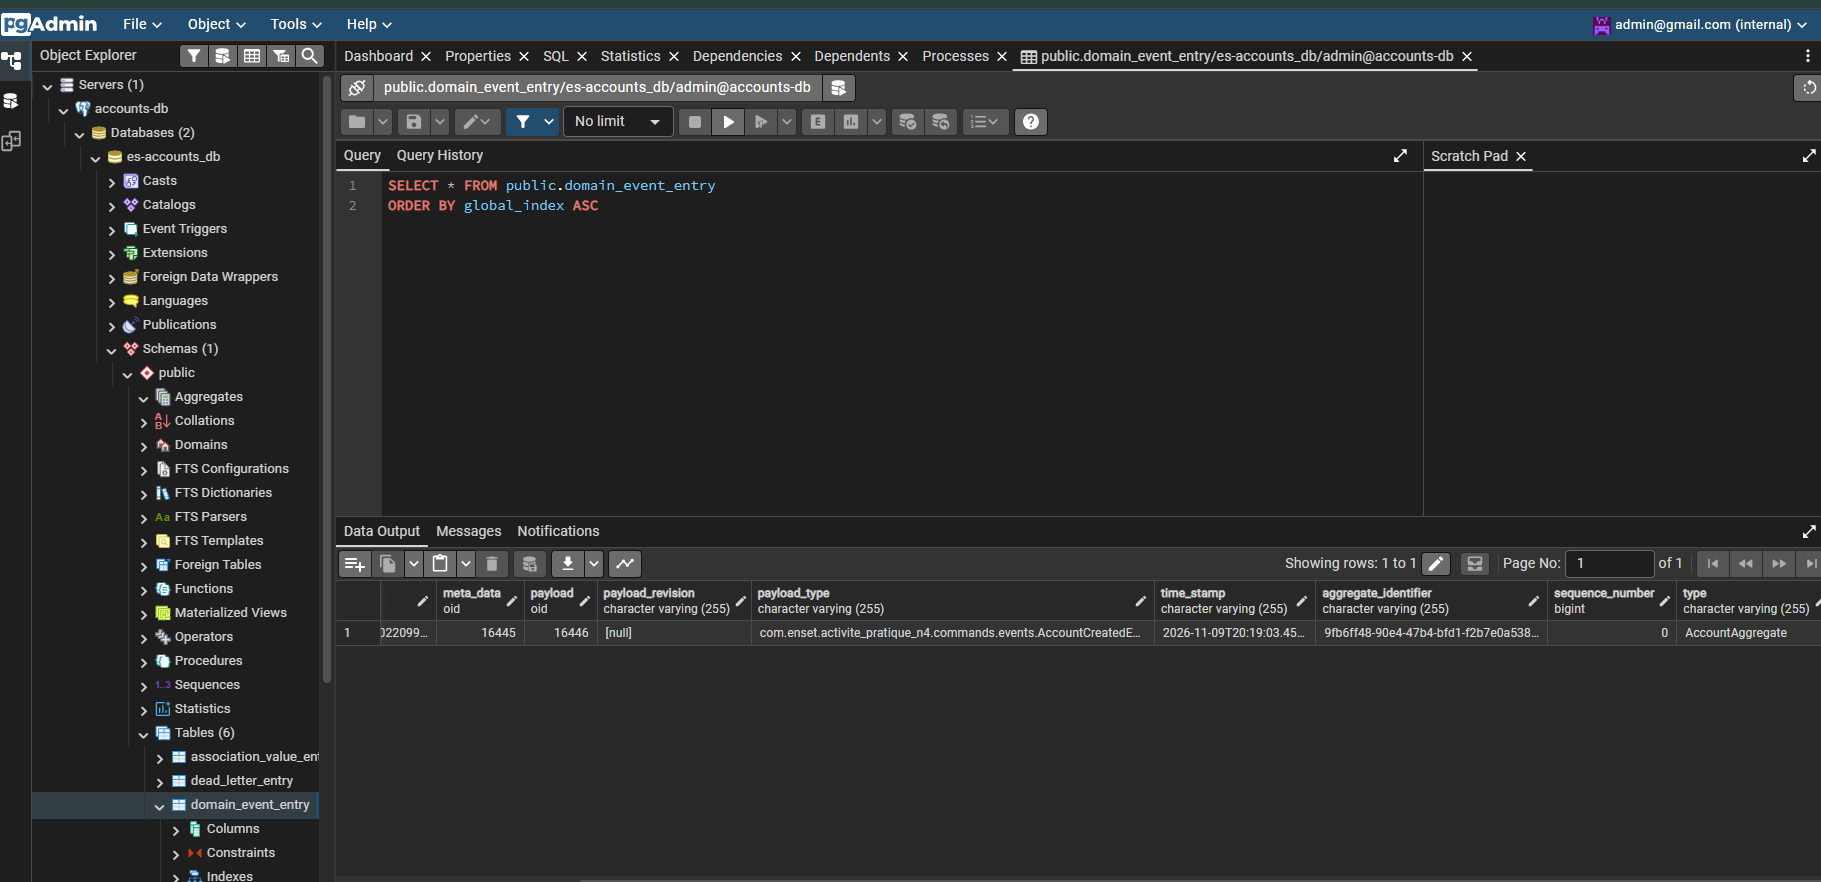
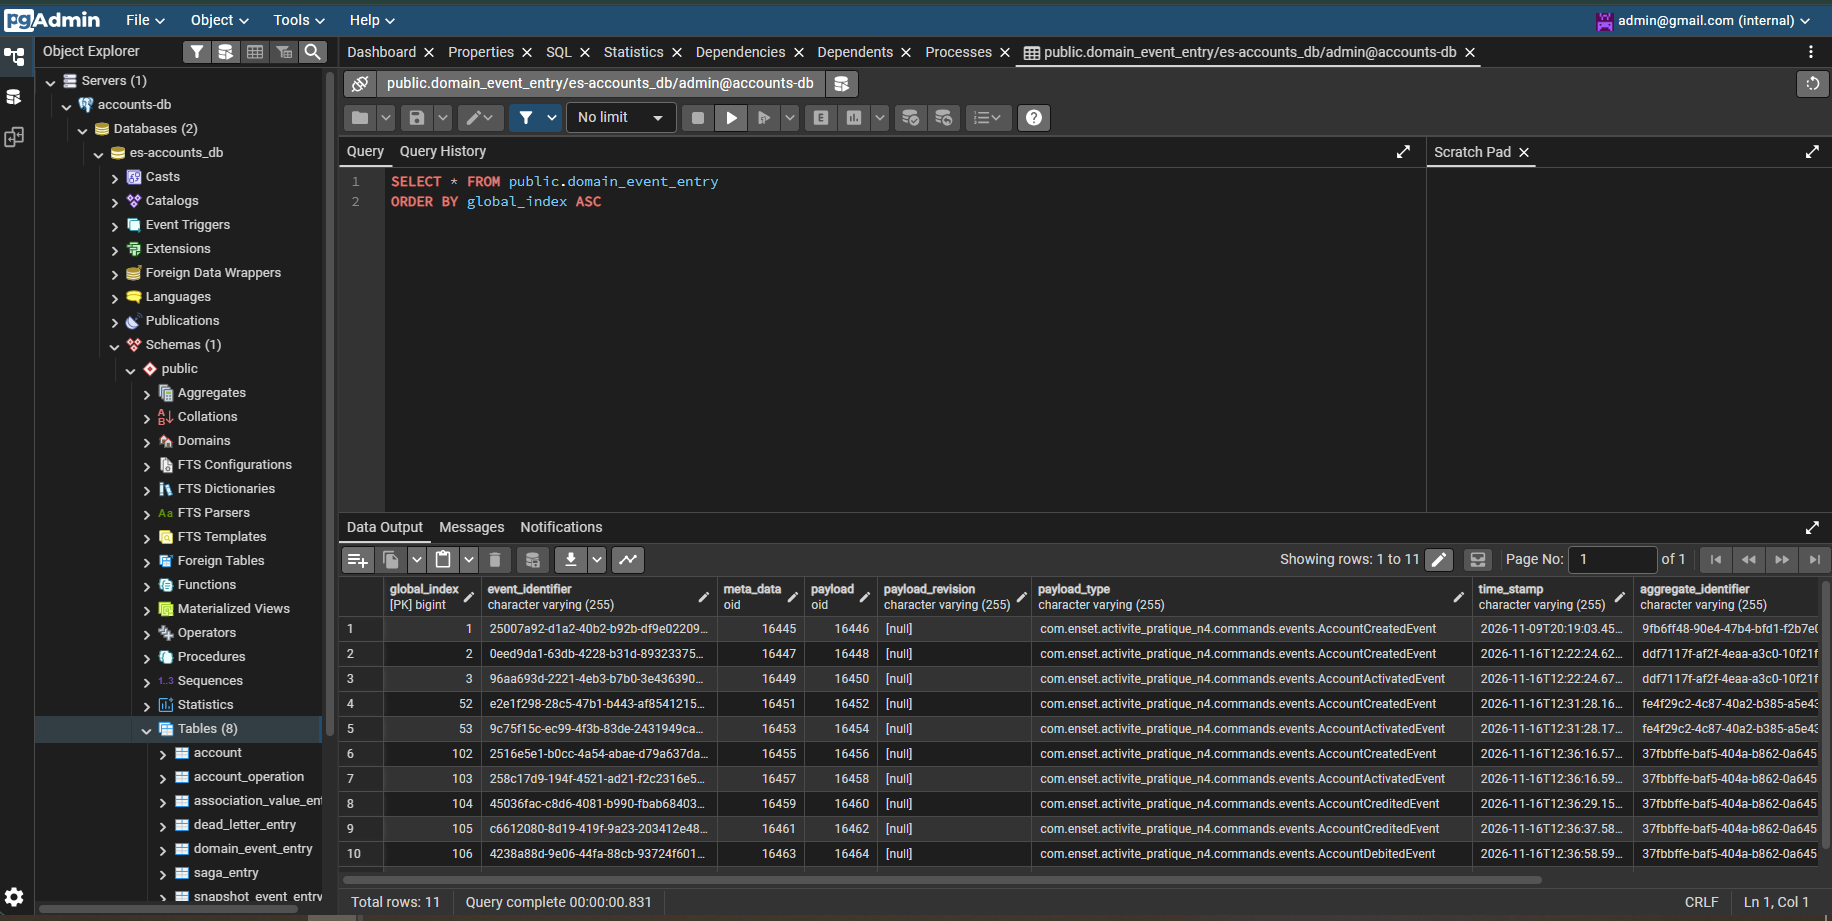
architecture CQRS et Event Sourcing fonctionnel

Changed region(s): [[0.0, 0.0, 1.0, 1.0]]

diff --git a/Activite_Pratique_N4-CQRS_Event_Sourcing_AXON_springCloud/src/main/java/com/enset/activite_pratique_n4/query/handlers/AccountEventHandler.java b/Activite_Pratique_N4-CQRS_Event_Sourcing_AXON_springCloud/src/main/java/com/enset/activite_pratique_n4/query/handlers/AccountEventHandler.java
@@ -1,0 +1,98 @@
+package com.enset.activite_pratique_n4.query.handlers;
+
+import com.enset.activite_pratique_n4.commands.events.*;
+import com.enset.activite_pratique_n4.common.OperationType;
+import com.enset.activite_pratique_n4.query.entities.Account;
+import com.enset.activite_pratique_n4.query.entities.AccountOperation;
+import com.enset.activite_pratique_n4.query.repositories.AccountRepository;
+import com.enset.activite_pratique_n4.query.repositories.OperationRepository;
+import lombok.AllArgsConstructor;
+import lombok.extern.slf4j.Slf4j;
+import org.axonframework.eventhandling.EventHandler;
+import org.axonframework.eventhandling.EventMessage;
+import org.springframework.stereotype.Service;
+
+@Service
+@AllArgsConstructor
+@Slf4j
+public class AccountEventHandler {
+
+    private AccountRepository accountRepository;
+    private OperationRepository operationRepository;
+
+    @EventHandler
+    public void on(AccountCreatedEvent event, EventMessage<AccountCreatedEvent> eventMessage) {
+        log.info("Query Side : AccountCreatedEvent received");
+
+        Account account = new Account();
+        account.setId(event.getAccountId());
+        account.setBalance(event.getInitialBalance());
+        account.setStatus(event.getStatus());
+        account.setCurrency(event.getCurrency());
+
+        account.setCreatedAt(eventMessage.getTimestamp());
+
+        accountRepository.save(account);
+    }
+
+    @EventHandler
+    public void on(AccountActivatedEvent event) {
+        log.info("Query Side : AccountActivatedEvent received");
+        Account account = accountRepository.findById(event.getAccountId()).get();
+        account.setStatus(event.getStatus());
+        accountRepository.save(account);
+    }
+
+    @EventHandler
+    public void on(AccountStatusUpdatedEvent event) {
+        log.info("Query Side : AccountStatusUpdatedEvent received");
+        Account account = accountRepository.findById(event.getId()).get();
+        account.setStatus(event.getStatus());
+        accountRepository.save(account);
+    }
+
+
+    // Projection de l'événement de Débit
+    @EventHandler
+    public void on(AccountDebitedEvent event, EventMessage<AccountDebitedEvent> eventMessage) {
+        log.info("Query Side : AccountDebitedEvent received");
+
+        // 1. Charger le compte depuis la base de lecture
+        Account account = accountRepository.findById(event.getAccountId()).get();
+
+        // 2. Créer l'opération
+        AccountOperation accountOperation = new AccountOperation();
+        accountOperation.setAmount(event.getAmount());
+        accountOperation.setOperationDate(eventMessage.getTimestamp());
+        accountOperation.setType(OperationType.DEBIT);
+        accountOperation.setAccount(account);
+
+        // 3. Sauvegarder l'opération
+        operationRepository.save(accountOperation);
+
+        // 4. Mettre à jour le solde du compte
+        account.setBalance(account.getBalance() - event.getAmount());
+        accountRepository.save(account);
+    }
+
+    // Projection de l'événement de Crédit
+    @EventHandler
+    public void on(AccountCreditedEvent event, EventMessage<AccountCreditedEvent> eventMessage) {
+        log.info("Query Side : AccountCreditedEvent received");
+
+        Account account = accountRepository.findById(event.getAccountId()).get();
+
+        AccountOperation accountOperation = new AccountOperation();
+        accountOperation.setAmount(event.getAmount());
+        accountOperation.setOperationDate(eventMessage.getTimestamp());
+        accountOperation.setType(OperationType.CREDIT);
+        accountOperation.setAccount(account);
+
+        operationRepository.save(accountOperation);
+
+        account.setBalance(account.getBalance() + event.getAmount());
+        accountRepository.save(account);
+    }
+
+
+}

diff --git a/Activite_Pratique_N4-CQRS_Event_Sourcing_AXON_springCloud/src/main/java/com/enset/activite_pratique_n4/query/controllers/AccountQueryController.java b/Activite_Pratique_N4-CQRS_Event_Sourcing_AXON_springCloud/src/main/java/com/enset/activite_pratique_n4/query/controllers/AccountQueryController.java
@@ -1,0 +1,42 @@
+package com.enset.activite_pratique_n4.query.controllers;
+
+import com.enset.activite_pratique_n4.query.dto.AccountStatementResponseDTO;
+import com.enset.activite_pratique_n4.query.entities.Account;
+import com.enset.activite_pratique_n4.query.queries.GetAccountStatementQuery;
+import com.enset.activite_pratique_n4.query.queries.GetAllAccountsQuery;
+import lombok.AllArgsConstructor;
+import org.axonframework.messaging.responsetypes.ResponseTypes;
+import org.axonframework.queryhandling.QueryGateway;
+import org.springframework.web.bind.annotation.GetMapping;
+import org.springframework.web.bind.annotation.PathVariable;
+import org.springframework.web.bind.annotation.RequestMapping;
+import org.springframework.web.bind.annotation.RestController;
+
+import java.util.List;
+import java.util.concurrent.CompletableFuture;
+
+@RestController
+@RequestMapping("/query/accounts")
+@AllArgsConstructor
+public class AccountQueryController {
+
+    private QueryGateway queryGateway;
+
+    // Consulter tous les comptes
+    @GetMapping("/all")
+    public CompletableFuture<List<Account>> getAllAccounts() {
+        return queryGateway.query(
+                new GetAllAccountsQuery(),
+                ResponseTypes.multipleInstancesOf(Account.class)
+        );
+    }
+
+    // Consulter le relevé d'un compte (historique des transactions)
+    @GetMapping("/statement/{accountId}")
+    public CompletableFuture<AccountStatementResponseDTO> getAccountStatement(@PathVariable String accountId) {
+        return queryGateway.query(
+                new GetAccountStatementQuery(accountId),
+                ResponseTypes.instanceOf(AccountStatementResponseDTO.class)
+        );
+    }
+}

diff --git a/Activite_Pratique_N4-CQRS_Event_Sourcing_AXON_springCloud/src/main/java/com/enset/activite_pratique_n4/query/handlers/AccountQueryHandler.java b/Activite_Pratique_N4-CQRS_Event_Sourcing_AXON_springCloud/src/main/java/com/enset/activite_pratique_n4/query/handlers/AccountQueryHandler.java
@@ -1,0 +1,35 @@
+package com.enset.activite_pratique_n4.query.handlers;
+
+import com.enset.activite_pratique_n4.query.dto.AccountStatementResponseDTO;
+import com.enset.activite_pratique_n4.query.entities.Account;
+import com.enset.activite_pratique_n4.query.entities.AccountOperation;
+import com.enset.activite_pratique_n4.query.queries.GetAccountStatementQuery;
+import com.enset.activite_pratique_n4.query.queries.GetAllAccountsQuery;
+import com.enset.activite_pratique_n4.query.repositories.AccountRepository;
+import com.enset.activite_pratique_n4.query.repositories.OperationRepository;
+import lombok.AllArgsConstructor;
+import org.axonframework.queryhandling.QueryHandler;
+import org.springframework.stereotype.Service;
+
+import java.util.List;
+
+@Service
+@AllArgsConstructor
+public class AccountQueryHandler {
+
+    private AccountRepository accountRepository;
+    private OperationRepository operationRepository;
+
+    @QueryHandler
+    public List<Account> on(GetAllAccountsQuery query) {
+        return accountRepository.findAll();
+    }
+
+    @QueryHandler
+    public AccountStatementResponseDTO on(GetAccountStatementQuery query) {
+        Account account = accountRepository.findById(query.getAccountId()).get();
+        List<AccountOperation> operations = operationRepository.findByAccountId(query.getAccountId());
+
+        return new AccountStatementResponseDTO(account, operations);
+    }
+}

diff --git a/Activite_Pratique_N4-CQRS_Event_Sourcing_AXON_springCloud/src/main/java/com/enset/activite_pratique_n4/query/entities/Account.java b/Activite_Pratique_N4-CQRS_Event_Sourcing_AXON_springCloud/src/main/java/com/enset/activite_pratique_n4/query/entities/Account.java
@@ -1,0 +1,28 @@
+package com.enset.activite_pratique_n4.query.entities;
+
+import com.enset.activite_pratique_n4.common.AccountStatus;
+import jakarta.persistence.Entity;
+import jakarta.persistence.EnumType;
+import jakarta.persistence.Enumerated;
+import jakarta.persistence.Id;
+import lombok.AllArgsConstructor;
+import lombok.Builder;
+import lombok.Data;
+import lombok.NoArgsConstructor;
+
+import java.time.Instant;
+
+@Entity
+@Data
+@NoArgsConstructor
+@AllArgsConstructor
+@Builder
+public class Account {
+    @Id
+    private String id;
+    private double balance;
+    @Enumerated(EnumType.STRING)
+    private AccountStatus status;
+    private String currency;
+    private Instant createdAt;
+}

diff --git a/Activite_Pratique_N4-CQRS_Event_Sourcing_AXON_springCloud/src/main/java/com/enset/activite_pratique_n4/query/entities/AccountOperation.java b/Activite_Pratique_N4-CQRS_Event_Sourcing_AXON_springCloud/src/main/java/com/enset/activite_pratique_n4/query/entities/AccountOperation.java
@@ -1,0 +1,27 @@
+package com.enset.activite_pratique_n4.query.entities;
+
+import com.enset.activite_pratique_n4.common.OperationType;
+import jakarta.persistence.*;
+import lombok.AllArgsConstructor;
+import lombok.Builder;
+import lombok.Data;
+import lombok.NoArgsConstructor;
+
+import java.time.Instant;
+
+@Entity
+@Data
+@NoArgsConstructor
+@AllArgsConstructor
+@Builder
+public class AccountOperation {
+    @Id
+    @GeneratedValue(strategy = GenerationType.IDENTITY)
+    private Long id;
+    private Instant operationDate;
+    private double amount;
+    @Enumerated(EnumType.STRING)
+    private OperationType type;
+    @ManyToOne
+    private Account account;
+}

diff --git a/Activite_Pratique_N4-CQRS_Event_Sourcing_AXON_springCloud/src/main/java/com/enset/activite_pratique_n4/query/dto/AccountStatementResponseDTO.java b/Activite_Pratique_N4-CQRS_Event_Sourcing_AXON_springCloud/src/main/java/com/enset/activite_pratique_n4/query/dto/AccountStatementResponseDTO.java
@@ -1,0 +1,15 @@
+package com.enset.activite_pratique_n4.query.dto;
+
+import com.enset.activite_pratique_n4.query.entities.Account;
+import com.enset.activite_pratique_n4.query.entities.AccountOperation;
+import lombok.AllArgsConstructor;
+import lombok.Data;
+import lombok.NoArgsConstructor;
+
+import java.util.List;
+
+@Data @AllArgsConstructor @NoArgsConstructor
+public class AccountStatementResponseDTO {
+    private Account account;
+    private List<AccountOperation> operations;
+}

diff --git a/Activite_Pratique_N4-CQRS_Event_Sourcing_AXON_springCloud/src/main/java/com/enset/activite_pratique_n4/query/repositories/OperationRepository.java b/Activite_Pratique_N4-CQRS_Event_Sourcing_AXON_springCloud/src/main/java/com/enset/activite_pratique_n4/query/repositories/OperationRepository.java
@@ -1,0 +1,11 @@
+package com.enset.activite_pratique_n4.query.repositories;
+
+import com.enset.activite_pratique_n4.query.entities.Account;
+import com.enset.activite_pratique_n4.query.entities.AccountOperation;
+import org.springframework.data.jpa.repository.JpaRepository;
+
+import java.util.List;
+
+public interface OperationRepository extends JpaRepository<AccountOperation, Long> {
+    List<AccountOperation> findByAccountId(String accountId);
+}

diff --git a/Activite_Pratique_N4-CQRS_Event_Sourcing_AXON_springCloud/src/main/java/com/enset/activite_pratique_n4/query/repositories/AccountRepository.java b/Activite_Pratique_N4-CQRS_Event_Sourcing_AXON_springCloud/src/main/java/com/enset/activite_pratique_n4/query/repositories/AccountRepository.java
@@ -1,0 +1,7 @@
+package com.enset.activite_pratique_n4.query.repositories;
+
+import com.enset.activite_pratique_n4.query.entities.Account;
+import org.springframework.data.jpa.repository.JpaRepository;
+
+public interface AccountRepository extends JpaRepository<Account, String> {
+}

diff --git a/Activite_Pratique_N4-CQRS_Event_Sourcing_AXON_springCloud/src/main/java/com/enset/activite_pratique_n4/query/queries/GetAccountStatementQuery.java b/Activite_Pratique_N4-CQRS_Event_Sourcing_AXON_springCloud/src/main/java/com/enset/activite_pratique_n4/query/queries/GetAccountStatementQuery.java
@@ -1,0 +1,10 @@
+package com.enset.activite_pratique_n4.query.queries;
+
+import lombok.AllArgsConstructor;
+import lombok.Getter;
+
+@Getter
+@AllArgsConstructor
+public class GetAccountStatementQuery {
+    private String accountId;
+}

diff --git a/Activite_Pratique_N4-CQRS_Event_Sourcing_AXON_springCloud/src/main/java/com/enset/activite_pratique_n4/common/OperationType.java b/Activite_Pratique_N4-CQRS_Event_Sourcing_AXON_springCloud/src/main/java/com/enset/activite_pratique_n4/common/OperationType.java
@@ -1,0 +1,5 @@
+package com.enset.activite_pratique_n4.common;
+
+public enum OperationType {
+    CREDIT, DEBIT
+}

diff --git a/Activite_Pratique_N4-CQRS_Event_Sourcing_AXON_springCloud/src/main/java/com/enset/activite_pratique_n4/query/queries/GetAllAccountsQuery.java b/Activite_Pratique_N4-CQRS_Event_Sourcing_AXON_springCloud/src/main/java/com/enset/activite_pratique_n4/query/queries/GetAllAccountsQuery.java
@@ -1,0 +1,4 @@
+package com.enset.activite_pratique_n4.query.queries;
+
+public class GetAllAccountsQuery {
+}
